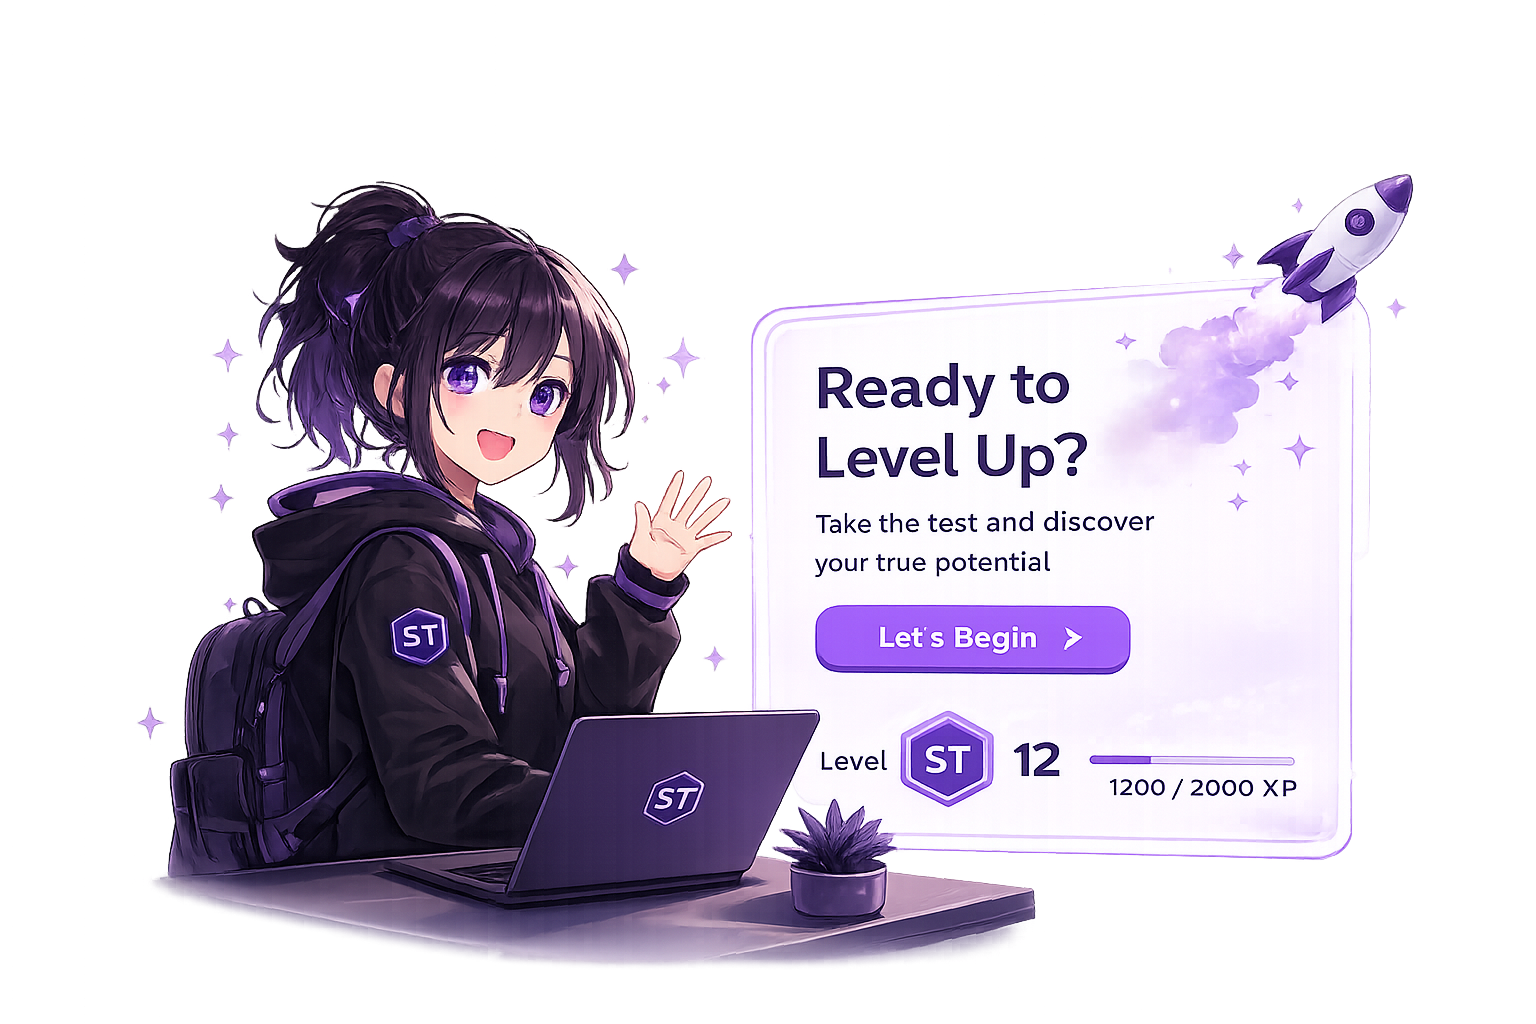
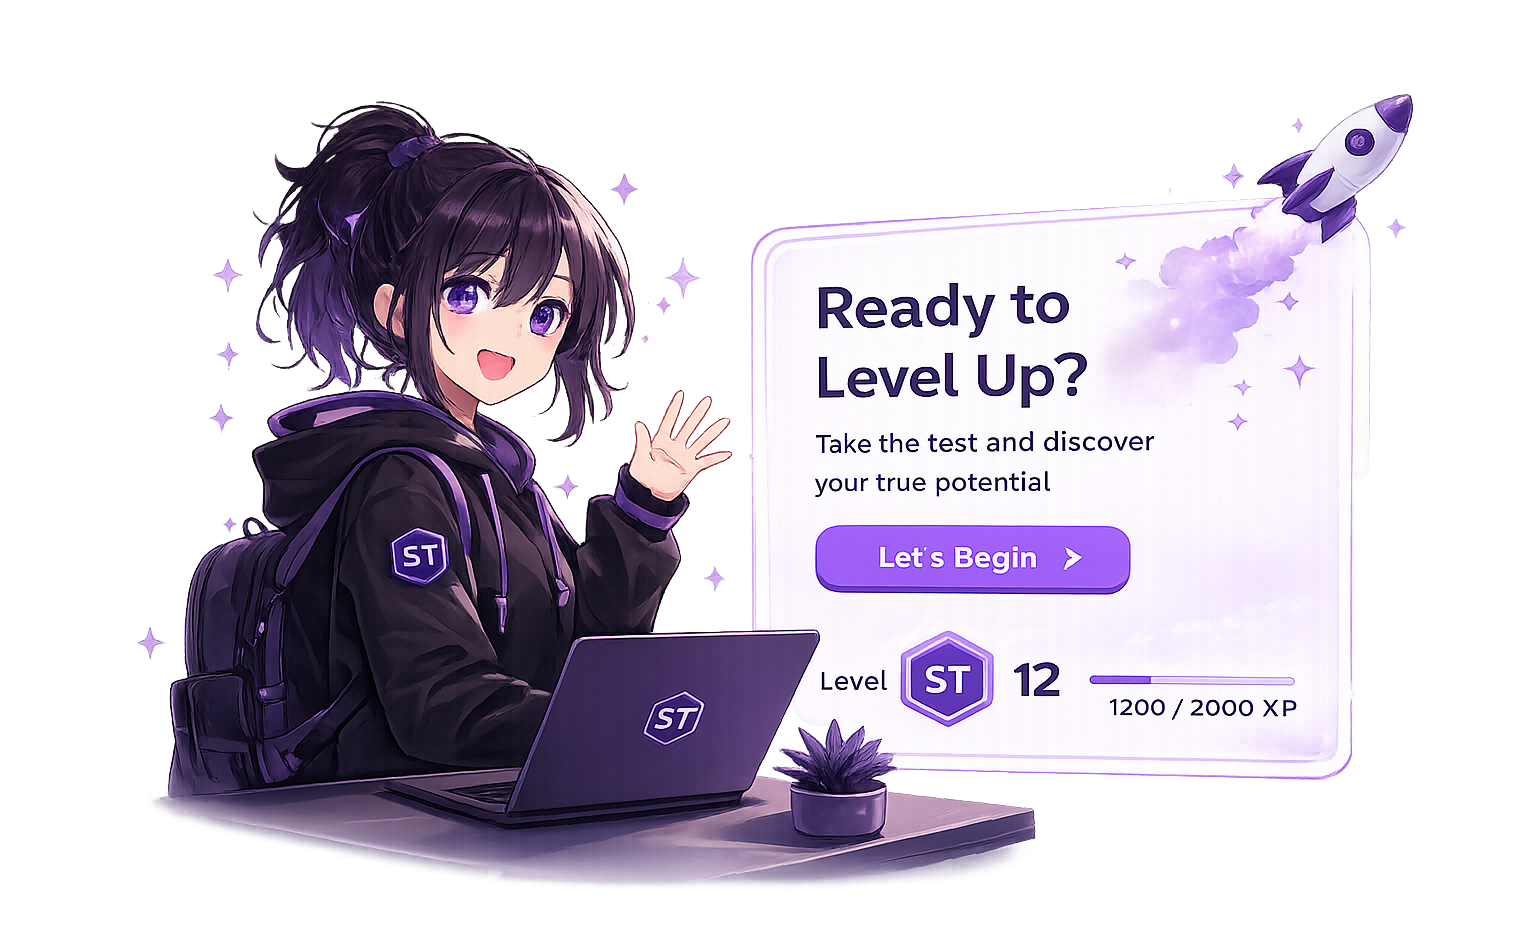
changed the UI design for both android, desktop - page[1,2]

Changed region(s): [[0.0938, 0.0922, 0.9375, 0.9523], [0.4062, 0.7373, 0.4688, 0.7987], [0.8438, 0.4301, 0.875, 0.4608]]

diff --git a/style.css b/style.css
@@ -34,7 +34,13 @@ header {
 }
 body {
   margin: 0;
-  padding-top: 100px; 
+  padding-top: 100px;
+  background: linear-gradient(
+     90deg,
+    #6C5CE7 0%,
+    #c99696 50%,
+    #ffffff 100%
+  );
 }
 .logo {
   height: 80px; /* Adjusted to fit header better */
@@ -74,7 +80,7 @@ body {
 
 /* this is for the main content section */
 .let-begin {
-  margin-top: 20px;
+  margin-top: 0px;
   padding: 10px 48px 10px 48px;
   font-family: "Michroma", sans-serif;
   background-color: #A085FF; /* Lavender color */
@@ -108,6 +114,12 @@ body {
 }
 .one-content{
   position: relative;
+   /* background: linear-gradient(
+     90deg,
+    #6C5CE7 0%,
+    #c99696 50%,
+    #ffffff 100%
+  ) */
 }
 
 .one-content .let-begin {
@@ -115,6 +127,9 @@ body {
   top: 55.5%;
   left: 52.9%;
   zoom: 170%;
+}
+.img-two{
+  display: none;
 }
 .profile {
   height: 40px;
@@ -124,6 +139,12 @@ body {
 .profile:hover {
   transform: scale(1.5);
   transition: 0.3s;
+}
+.after-main-part{
+  background-color: #5A4BD9;
+  color: #ffffff;
+  height: 400px;
+  position: relative;
 }
 .after-main-part .text-one {
   font-family: "Sekuya", system-ui;
@@ -137,9 +158,16 @@ body {
   font-style: normal;
   font-size: 20px;
   margin-top: 10px;
+  color:blanchedalmond;
 }
 .text-one .highlight {
   color: #A085FF; /* Lavender color */
+}
+
+.wave{
+ margin-top: -17%; 
+ z-index: 3;
+ position: relative;
 }
 .middle-part {
   height: 500px;
@@ -161,12 +189,20 @@ body {
 
 
 
-
 /* Android View */
 @media (max-width: 768px) {
   /* .nav-links {
    z-index: 10;
   } */
+   /* body{
+     background: linear-gradient(to top,
+    #ffffff 0%,
+    #ac8282 25%,
+    #d79d9d 35%,
+    #ecdede 50%,
+    #ffffff 100%
+  );
+   } */
   .nav-links {
     display: none;
     flex-direction: column;
@@ -202,7 +238,17 @@ body {
     margin-top: 50px;
     height:auto;
     width:90%; 
+    /* display: flex; */
+    display: none;
+    justify-content: center;
+    align-items: center;
+  }
+  .img-two{
+     margin-top: 50px;
+    height:auto;
+    width:90%; 
     display: flex;
+    display: block;
     justify-content: center;
     align-items: center;
   }
@@ -237,6 +283,12 @@ body {
 /* #menu-toggle:checked ~ .nav-links {
   display: flex;
 } */
+ .after-main-part{
+  height: 500px;
+ }
+ /* .wave{
+  margin-top: -1%;
+ } */
 }
 footer {
   background-color: #0B0A0D;

diff --git a/signup.html b/signup.html
@@ -33,25 +33,32 @@
 <center><section>
     <div class="login-form">
         <form id="signupform">
-            <h2>Sign Up</h2>
+            <h2>Create an account</h2>
             <input type="text" name="username" placeholder="Username" id="username" required><br>
             <input type="email" name="email" placeholder="Email" id="email"><br>
             <input type="password" name="password" placeholder="Password" id="pword"><br>
             <input type="password" name="confirmpassword" placeholder="Confirm password" id="pword1"><br>
-            <button type="submit">Sign Up</button>
+            <button type="submit" onclick="gif()" id="submit">Sign Up</button>
             <button type="reset">Reset</button>
             <h3 id="changelogin">Have an account? Log in</h3>
         </form>
     </div>
+    <div id="loader-container">
+        <img src="cargando.gif" alt="" id="loader-gif">
+        <p style="color: aliceblue; font-size: x-large; margin-left: 180px; margin-top: -200px; cursor: pointer; " onclick="cancel()">X</p>
+    </div>
+    
     <div class="popup-overlay" id="popupoverlay">
         <div class="popup" id="popup">
+            <p style="font-size: x-large; margin-left: 350px; cursor: pointer; " onclick="cancell()">x</p>
             <h2>Log in</h2>
             <input type="text" name="username" placeholder="username" class="username" required><br>
             <input type="password" name="password" placeholder="password" class="pword" required><br>
-        <button type="submit" id="loginbtn" >Login</button>
+        <button type="submit" id="loginbtn" onclick="gif()">Login</button>
         <button type="reset">Reset</button>
         </div>
     </div>
+    <!-- Loader -->
 </section></center>
 
 

diff --git a/index.html b/index.html
@@ -32,20 +32,22 @@
 <center><section>
     <!-- <div class="one"> -->
         <div class="one-content">
-        <img src="static - images/ChatGPT Image Apr 29, 2026, 12_13_17 PM.png" alt="img-one" class="img-one">
-        <a href="signup.html"><button class="let-begin">Let's Begin</button></a>
+            <img src="static - images/ChatGPT Image Apr 29, 2026, 12_13_17 PM.png" alt="img-one" class="img-one">
+            <img src="static - images/twopic.png" alt="two-pic" class="img-two">
+            <a href="signup.html"><button class="let-begin">Let's Begin</button></a>
         </div>
     <!-- </div> -->
 </section></center>
 
 <center><section class="after-main-part">
+    <br>
     <h1 class="text-one">How Good Are <span class="highlight">You</span>, Really?</h1>
 <p>Take a skill test in Web Development, Data Science, UI/UX, Digital Marketing & more — and find out exactly where you stand.</p>
         <a href="signup.html"><button id="let-begin">Let's Begin</button></a>
 
 </section></center>
 
-<div>
+<div class="wave">
     <img src="static - images/skilltest_wave.svg" alt="">
     <div class="middle-part"></div>
 </div>

diff --git a/signup.js b/signup.js
@@ -9,6 +9,25 @@ changelogin.addEventListener("click", function(){
 console.log(popup);
 });
 
+var submit = document.getElementById("submit");
+var loaderbox = document.getElementById("loader-container");
+var loadergif = document.getElementById("loader-gif");
+var loginn = document.getElementById("loginbtn");
+submit.addEventListener("click", function(){
+    loaderbox.style.display = "block";
+})
+loginn.addEventListener("click", function(){
+        loaderbox.style.display = "block";
+})
+
+function cancel() {
+        loaderbox.style.display = "none";
+}
+function cancell () {
+     popupoverlay.style.display = "none";
+    popup.style.display = "none";
+}
+
 
 
 
@@ -97,3 +116,4 @@ loginbtn.addEventListener("click", async () => {
     }
 
 });
+

diff --git a/signup.css b/signup.css
@@ -28,6 +28,12 @@ header {
 body {
   margin: 0;
   padding-top: 100px; 
+  background: linear-gradient(
+     90deg,
+    #6C5CE7 0%,
+    #c99696 50%,
+    #ffffff 100%
+  );
 }
 .logo {
   height: 80px; /* Adjusted to fit header better */
@@ -131,6 +137,16 @@ body {
   transform: scale(1.05);
   transition: 0.3s;
 }
+#loader-container{
+  margin-top: -400px;
+  margin-left: 725px;
+  position: absolute;
+  display: none;
+  z-index: 3;
+}
+
+
+
 
 
 
@@ -220,6 +236,7 @@ body {
 
 
 
+
 .middle-part {
   height: 500px;
   width: 100%;
@@ -268,6 +285,10 @@ body {
   }
   #menu-toggle:checked ~ .nav-links {
   display: flex ;
+}
+#loader-container{
+  margin-left: 150px;
+
 }
 }
 footer {

diff --git a/art.html b/art.html
@@ -20,7 +20,7 @@
     <label for="menu-toggle" class="menu-icon">|||</label>
     
     <ul class="nav-links">
-        <li><a href="index.html">Home</a></li>
+        <li><a href="firstpage.html">Home</a></li>
         <li><a href="#about">About</a></li>
         <li><a href="#profile">
             <img src="static - images/profile.png" alt="Profile Image" class="profile">

diff --git a/com.html b/com.html
@@ -21,7 +21,7 @@
     <label for="menu-toggle" class="menu-icon">|||</label>
     
     <ul class="nav-links">
-        <li><a href="index.html">Home</a></li>
+        <li><a href="firstpage.html">Home</a></li>
         <li><a href="#about">About</a></li>
         <li><a href="#profile">
             <img src="static - images/profile.png" alt="Profile Image" class="profile">

diff --git a/cs.html b/cs.html
@@ -20,7 +20,7 @@
     <label for="menu-toggle" class="menu-icon">|||</label>
     
     <ul class="nav-links">
-        <li><a href="index.html">Home</a></li>
+        <li><a href="firstpage.html">Home</a></li>
         <li><a href="#about">About</a></li>
         <li><a href="#profile">
             <img src="static - images/profile.png" alt="Profile Image" class="profile">

diff --git a/firstpage.html b/firstpage.html
@@ -21,7 +21,7 @@
     <label for="menu-toggle" class="menu-icon">|||</label>
     
     <ul class="nav-links">
-        <li><a href="index.html">Home</a></li>
+        <li><a href="firstpage.html">Home</a></li>
         <li><a href="#about">About</a></li>
         <li><a href="#profile">
             <img src="static - images/profile.png" alt="Profile Image" class="profile">

diff --git a/firstpage.css b/firstpage.css
@@ -28,6 +28,12 @@ header {
 body {
   margin: 0;
   padding-top: 100px; 
+    /* background: linear-gradient(
+     90deg,
+    #3d309b 0%,
+    #c99696 50%,
+    #3d309b 100%
+  ); */
 }
 .logo {
   height: 80px; /* Adjusted to fit header better */

diff --git a/server.js b/server.js
@@ -26,6 +26,7 @@ const User = mongoose.model("User", {
 
 //signup page
 app.post("/signup", async (req, res) => {
+    
 
     try {
 
